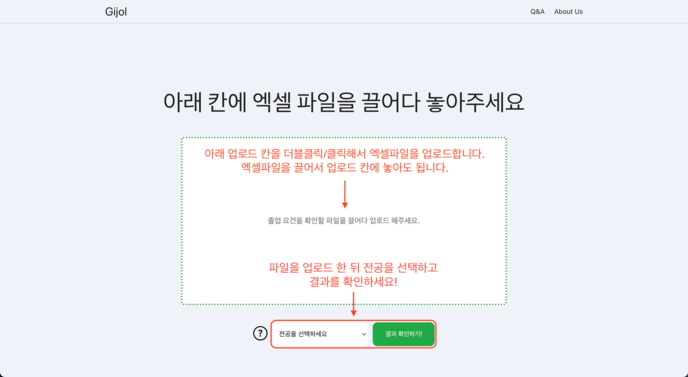
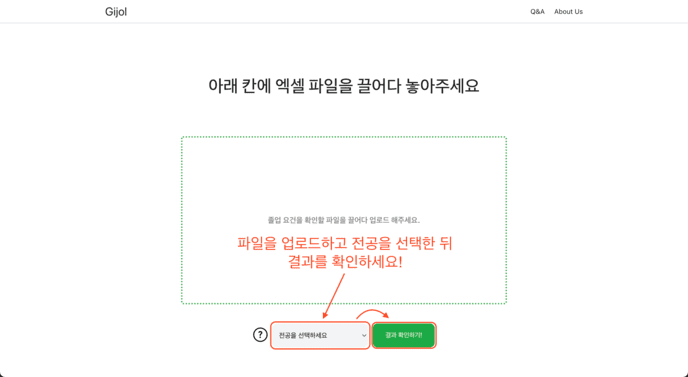
feat: 사진 변경 및 ZEUS 링크 추가

diff --git a/src/pages/frames/frameExplain/explainDrawer/drawer.tsx b/src/pages/frames/frameExplain/explainDrawer/drawer.tsx
@@ -42,7 +42,13 @@ const Drawer = function Drawer({
               fontSize: '18px',
             }}
           >
-            GIST ZEUS system에 접속합니다
+            <a
+              href="https://zeus.gist.ac.kr/sys/main/login.do"
+              style={{ textDecoration: 'none', color: '#1da447' }}
+            >
+              zeus.gist.ac.kr
+            </a>
+            에 접속합니다
           </div>
         ) : null}
         {drawerNum === 2 ? (

diff --git a/src/pages/frames/frameFileAdd/buttonContainer/style.ts b/src/pages/frames/frameFileAdd/buttonContainer/style.ts
@@ -3,7 +3,7 @@ import styled from 'styled-components';
 
 const Container = styled.div`
   width: 100%;
-  margin-top: 36px;
+  margin-top: 16px;
   display: flex;
   align-items: stretch;
   justify-content: center;
